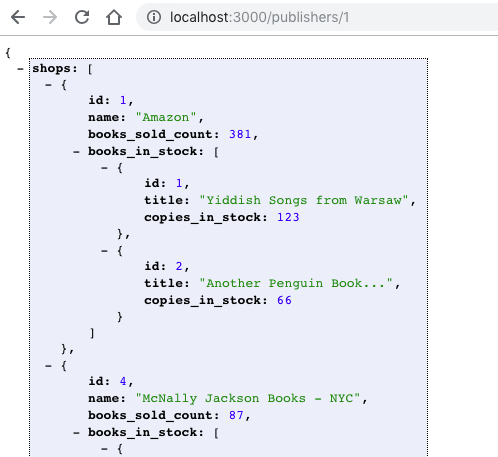
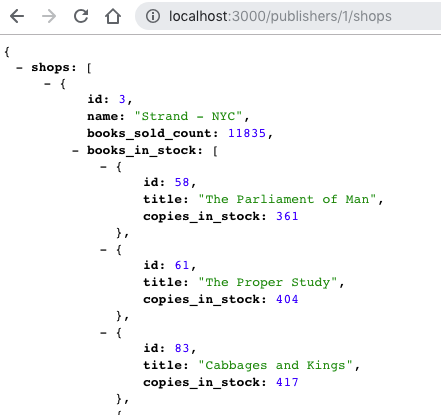
updated README

diff --git a/README.md b/README.md
@@ -15,10 +15,16 @@ run `rake db:seed`
 Note: this app has the following routes:
 
 resources :publishers, only: [:index, :show]
-resources :books, only: [:index]
+resources :publishers do
+  resources :shops, only: [:index]
+end
 resources :shops, only: [:index, :show]
+resources :books, only: [:index]
+
+Note: shops#index will conditionally render publisher_shops_path if params[:publisher_id]
 
 ### Endpoint 1
+publisher_shops -> /publishers/:publisher_id/shops
 Challenge: for a specific Publisher it should return the list of shops selling at least one book of that publisher.
 Shops should be ordered by the number of books sold.
 Each shop should include the list of Publisher’s books that are currently in stock.
@@ -28,6 +34,7 @@ Example response:
 ![endpoint 1 pic](https://github.com/ethanryan/publisher-bookshop-api/blob/master/images/endpoint-1.png)
 
 ### Endpoint 2
+shop -> /shops/:id
 Challenge: for a specific Shop it should mark one or multiple copies of a book as sold.
 
 Example response:
